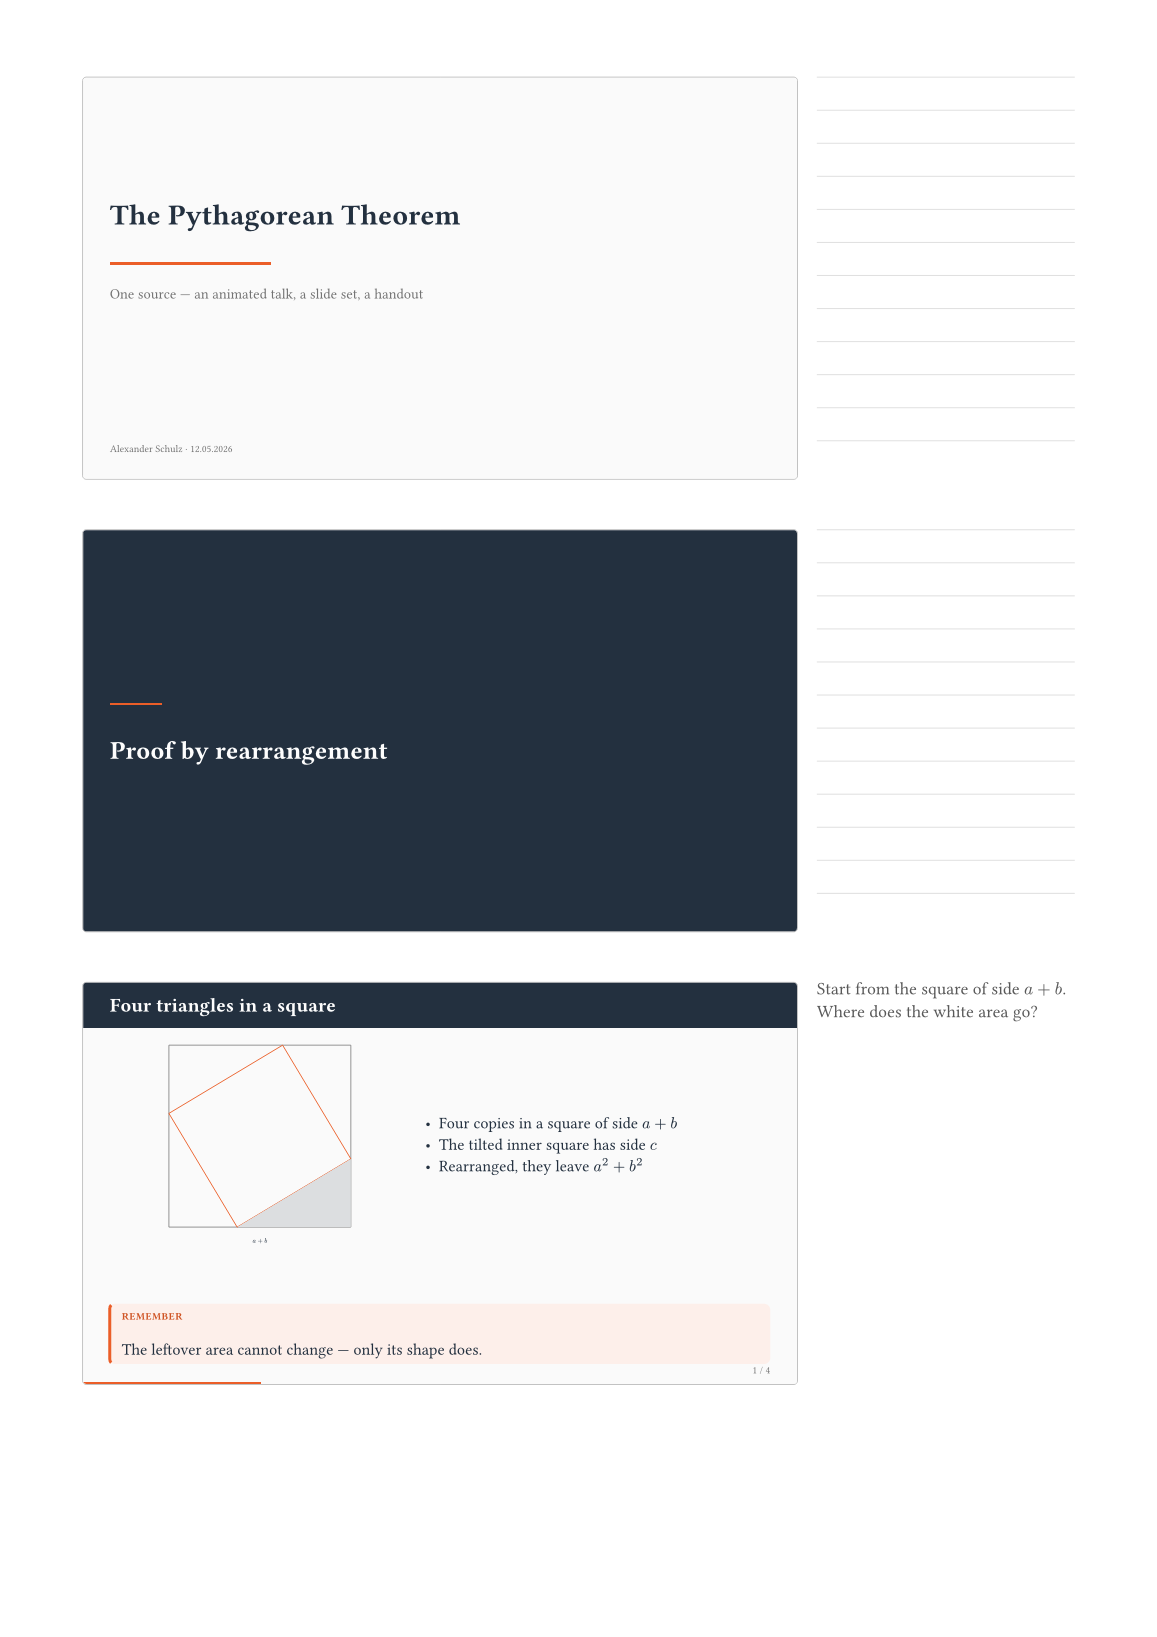
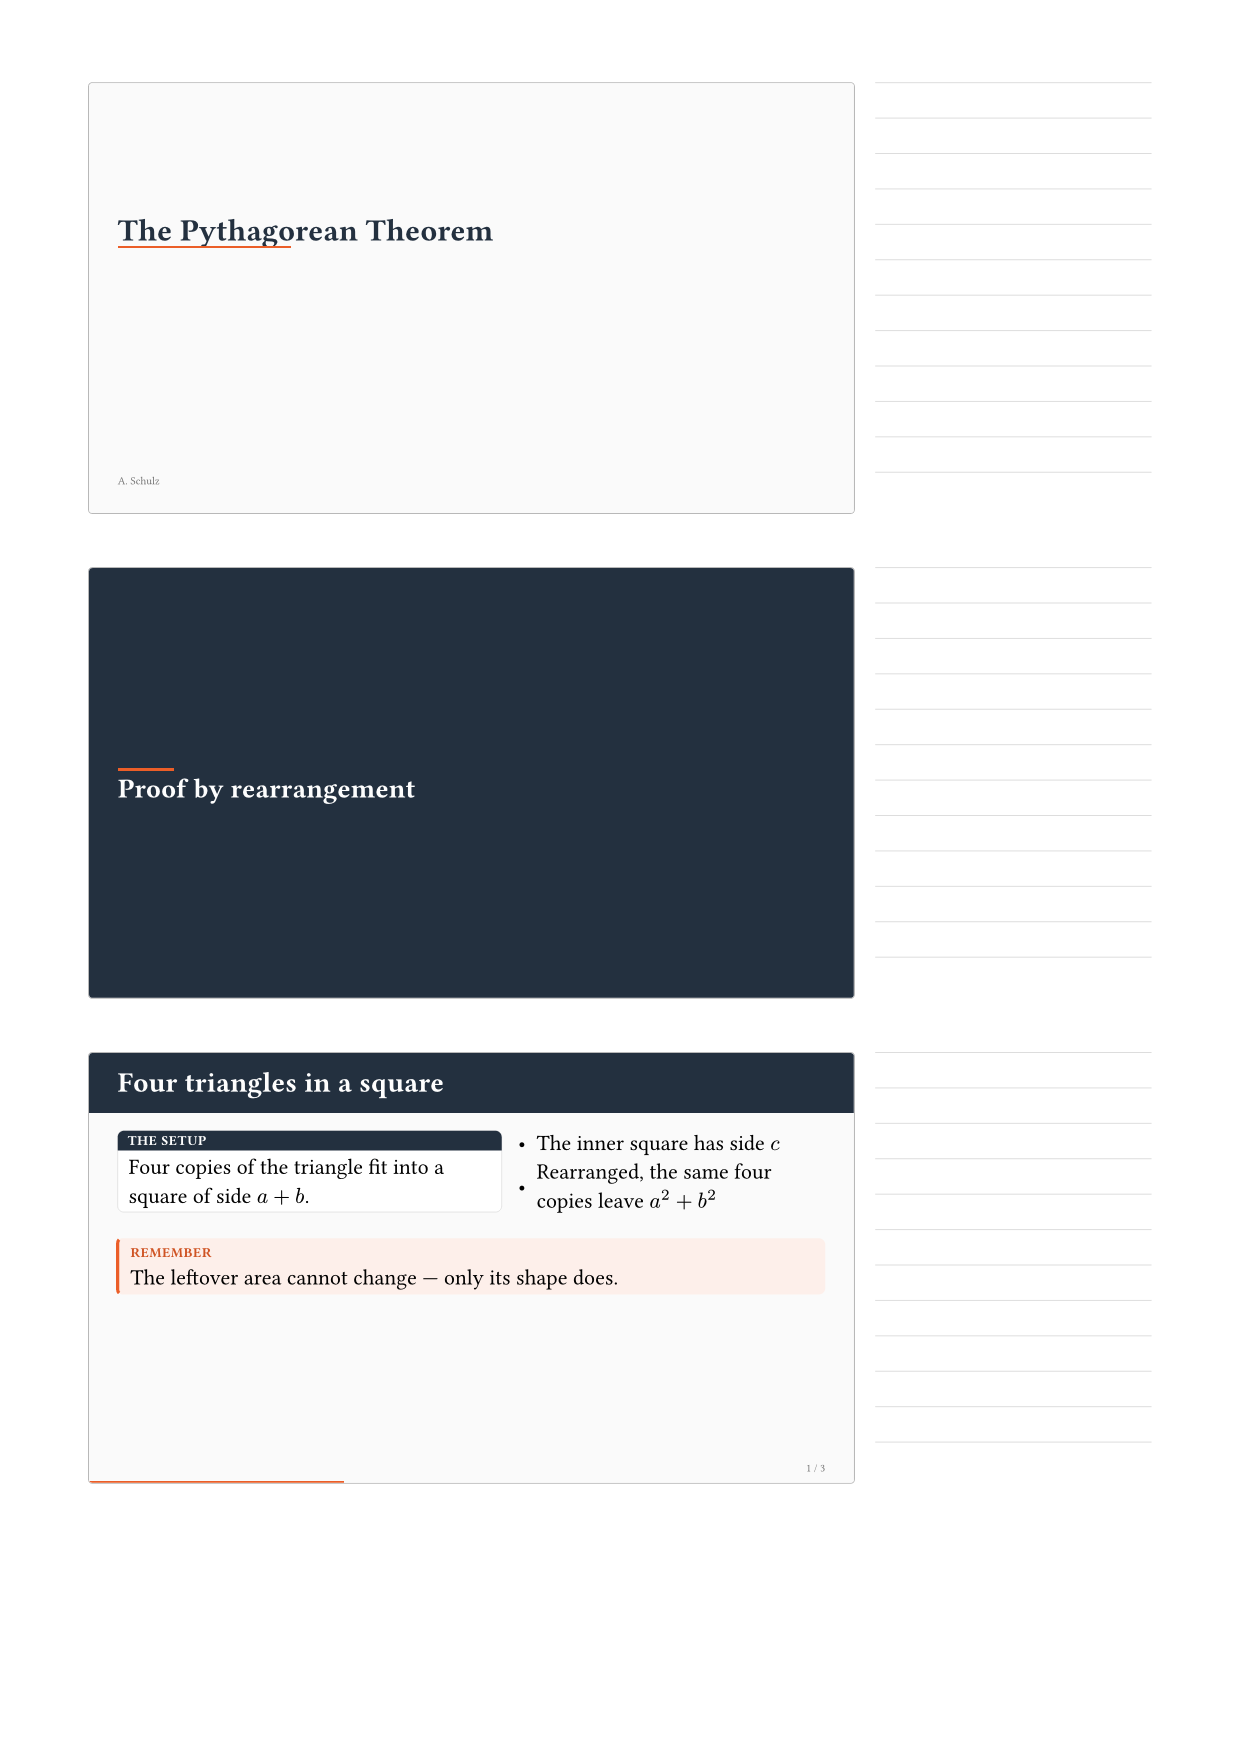
README-Bilder neu: sie zeigten den Stand vor den Abstands- und Größenfixen
Die drei Bilder entstanden um 22:14, die Reparaturen an Kartenabstand,
Merksatz und Schriftgrößen um 22:43 und 22:54. Sie zeigten also noch die 30pt
unter dem Kartenkopf, die 34pt im Merksatz und die alten 19pt/23pt.

Neu aufgenommen aus denselben Quellen: das Heldenbild wieder aus headless
Chrome bei 1600×900, diesmal auf Schritt 3 statt am Ende — die Bildunterschrift
verspricht „halfway through its reveals", und vorher stand schon alles da. Das
Handout aus demselben Deck mit `handout: 3`, die Galerie aus fünf frisch
gerenderten Theme-Folien.

Dabei fiel auf, dass ein Stichpunkt bei der größeren Schrift das `c` allein in
eine Zeile schob. Der Text ist in der README, im Beispiel-Deck und in den fünf
Theme-Decks gleichermaßen gekürzt — Bild und abgedrucktes Beispiel bleiben so
dasselbe.

diff --git a/README.md b/README.md
@@ -53,7 +53,7 @@ This file compiles, as it stands, with both commands above.
     Four copies of the triangle fit into a square of side $a + b$.
   ],
   stagger[
-    - The tilted inner square has side $c$
+    - The inner square has side $c$
     - Rearranged, the same four copies leave $a^2 + b^2$
   ],
 )
